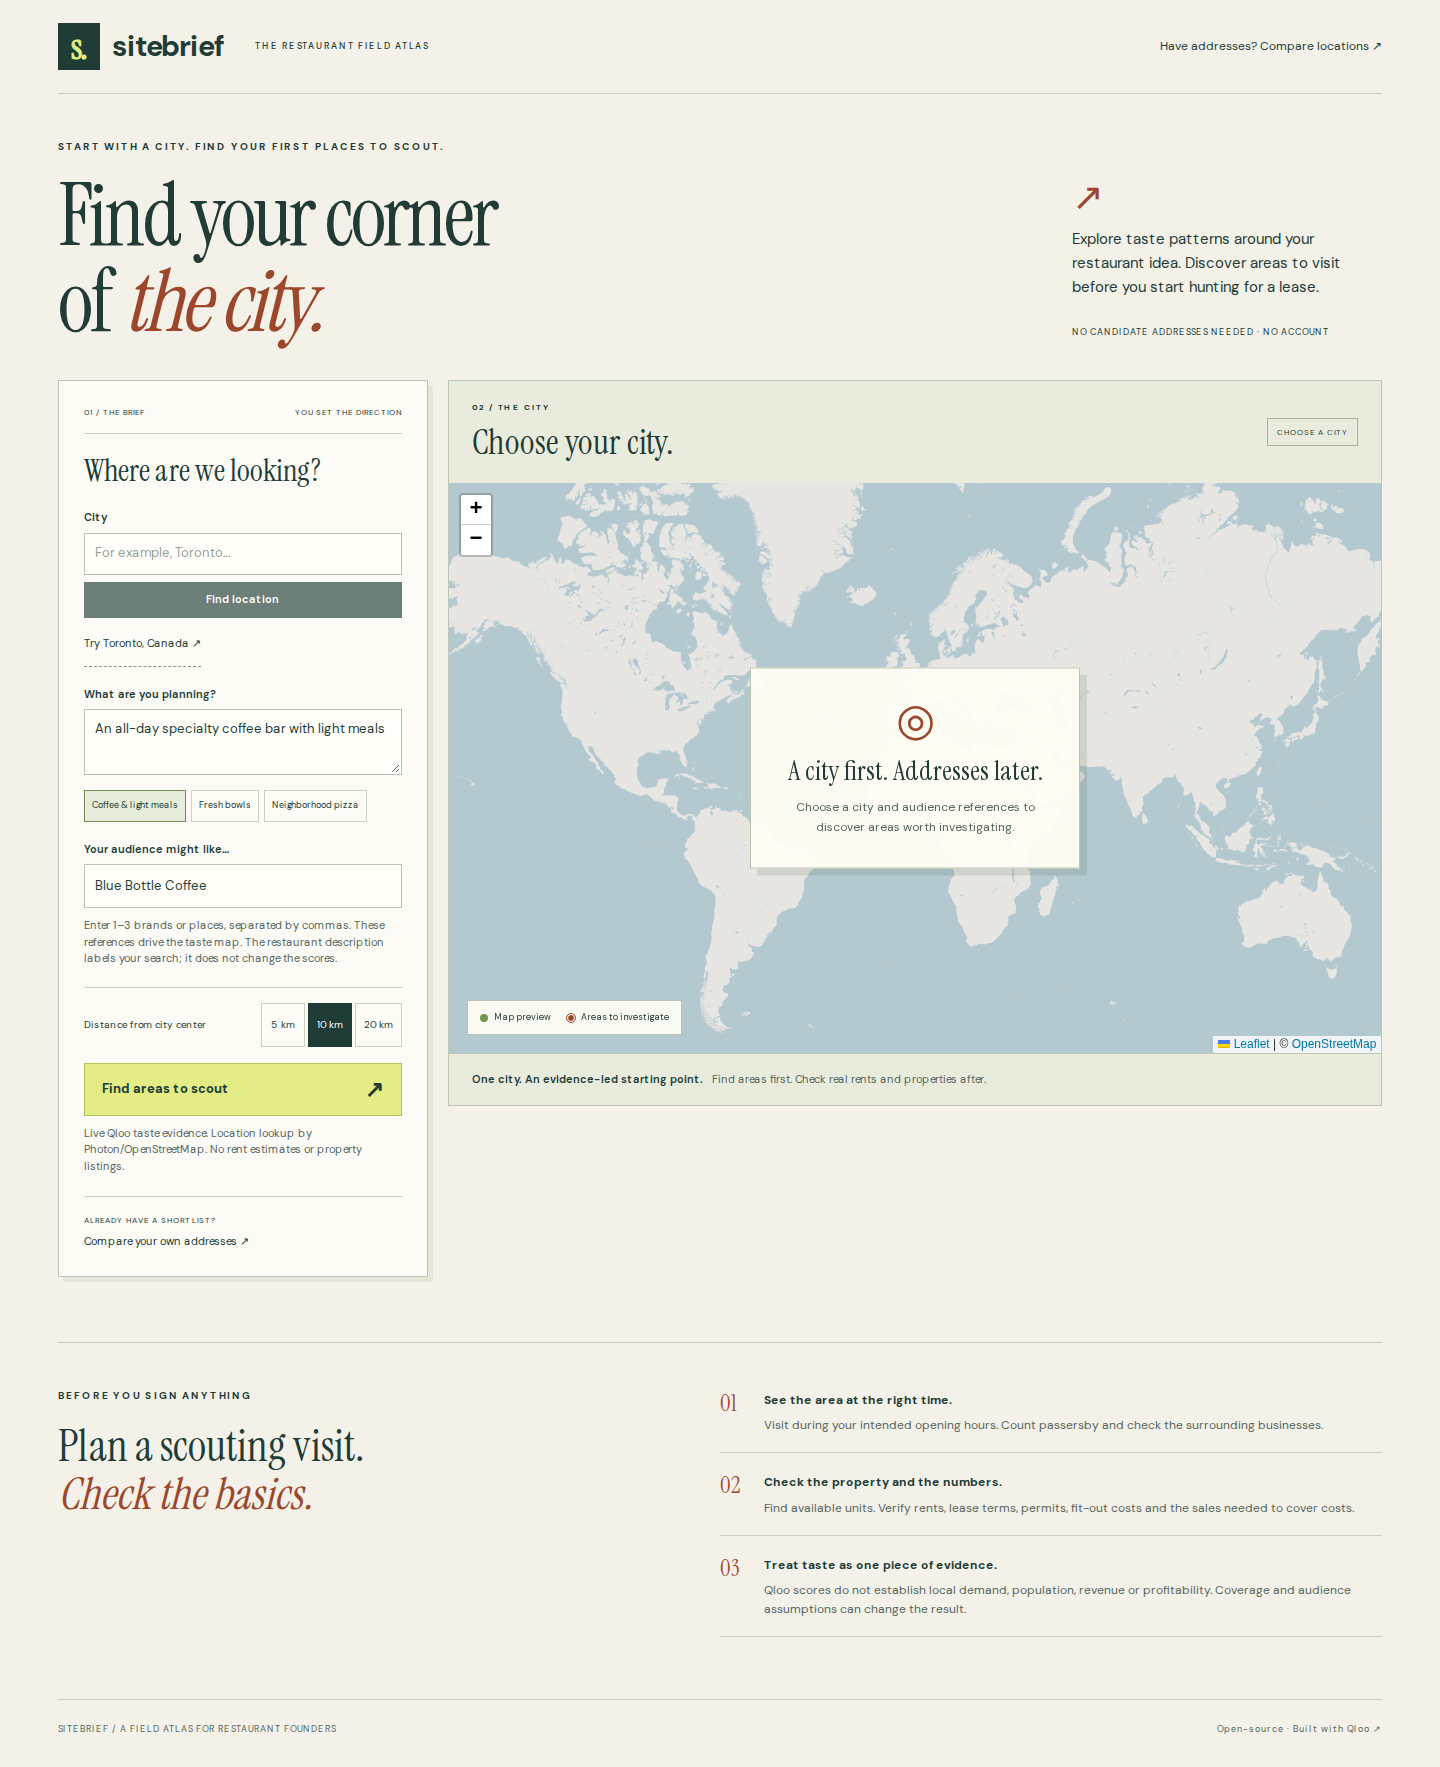
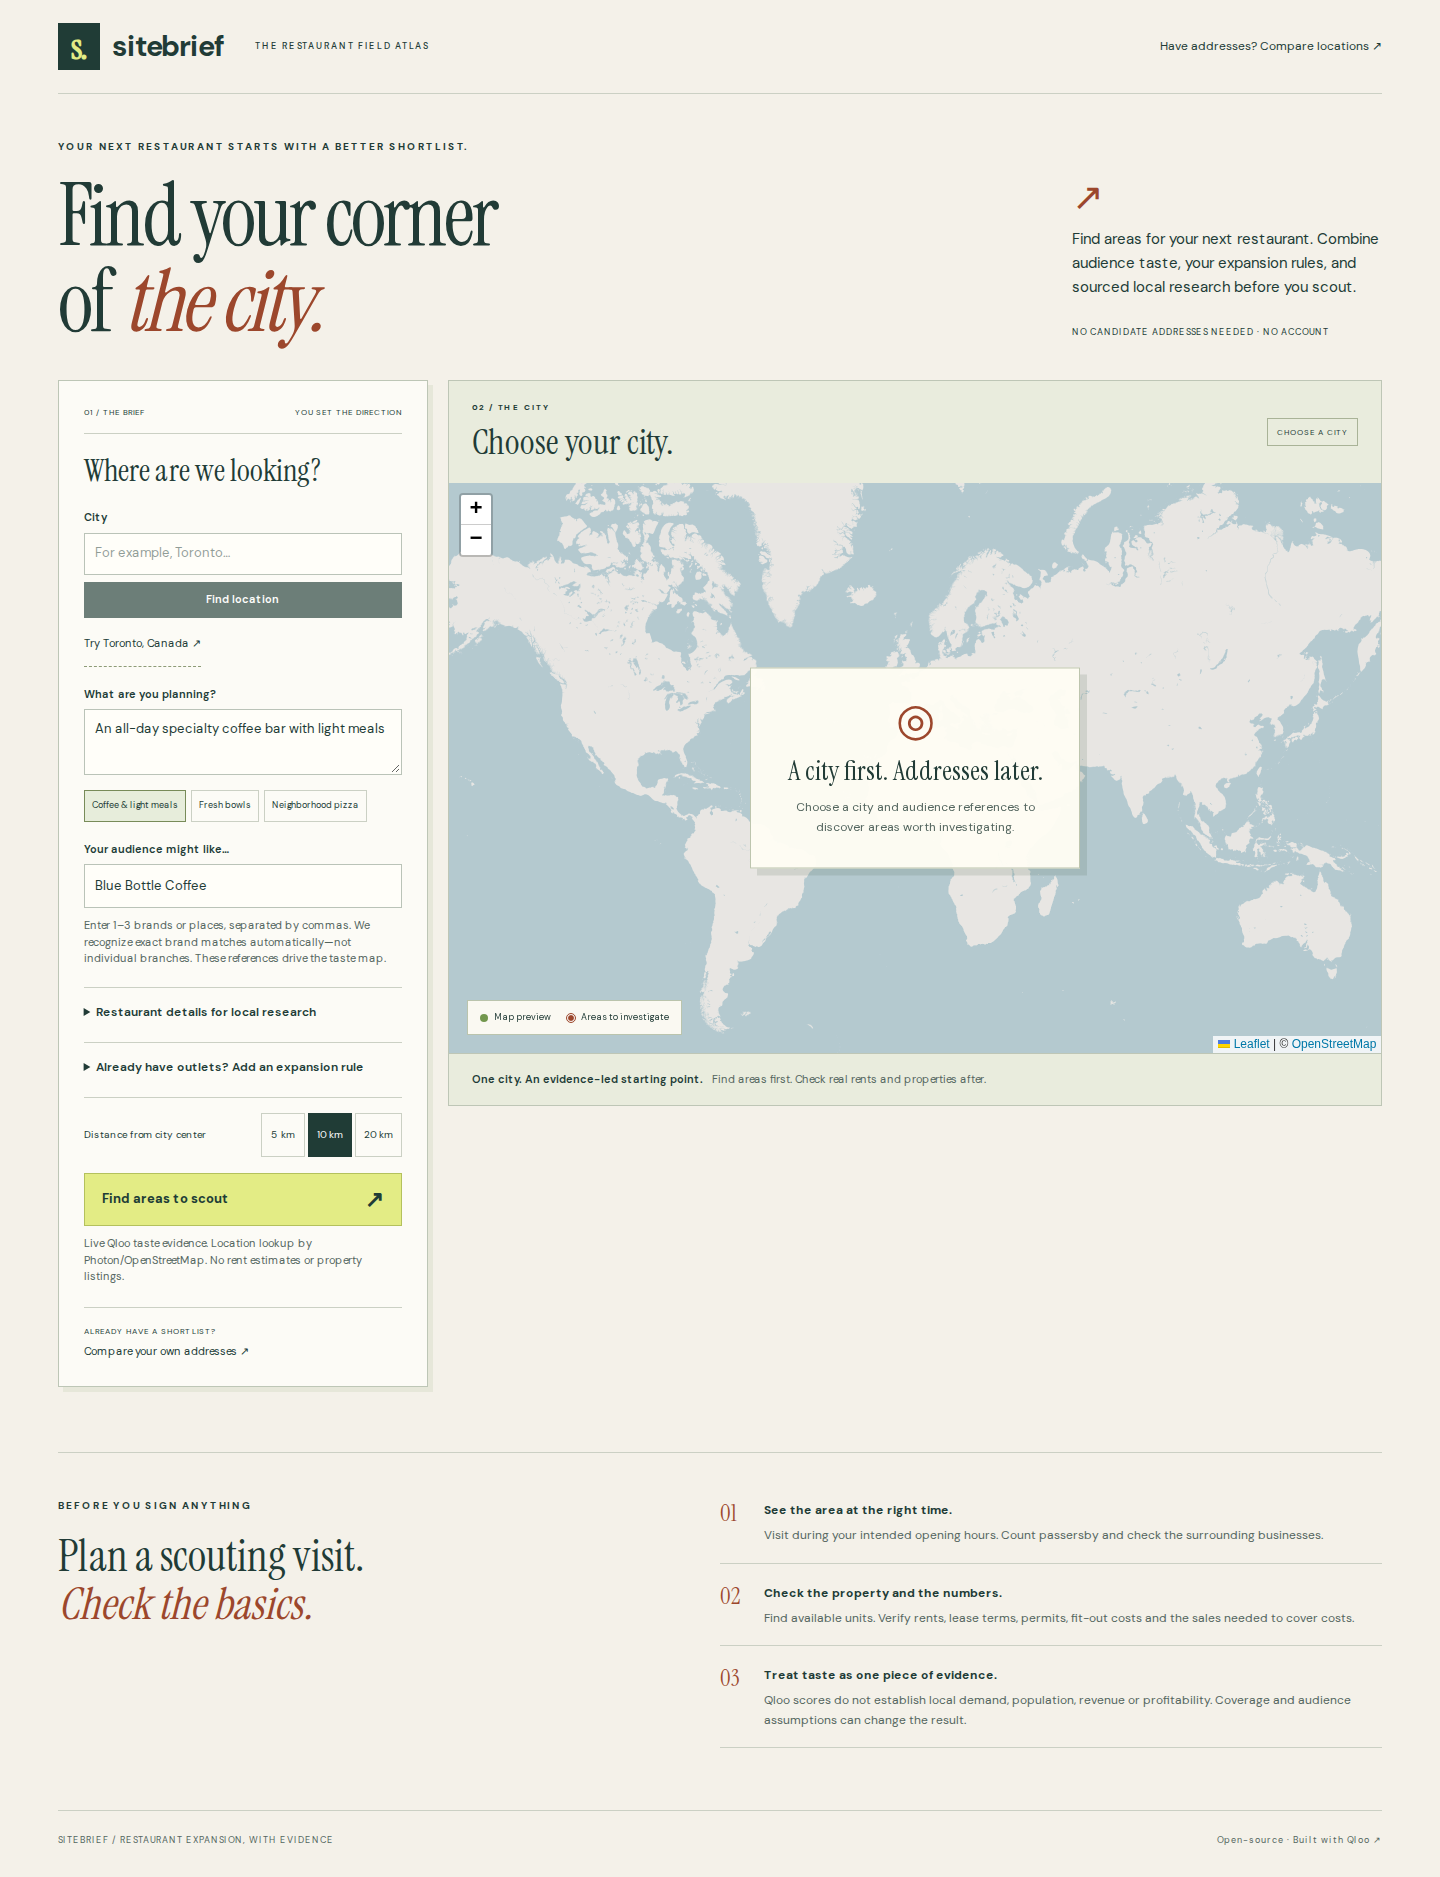
Record hosted restaurant demo checks and remaining Gemini blocker

diff --git a/docs/RESTAURANT_EXPANSION.md b/docs/RESTAURANT_EXPANSION.md
@@ -31,3 +31,9 @@ Restaurant-specific inputs remain in the brief schema; geographic selection, pro
 ## Live blocker at implementation
 
 The saved Vercel Gemini credential returned HTTP 400 API_KEY_INVALID on October 22. Qloo search works, including exact brand recognition for Starbucks and Blue Bottle Coffee. Research must remain marked unavailable until the credential is replaced and a real grounded research request passes. Never describe synthetic browser research checks as live verification.
+
+## Hosted core acceptance — October 22
+
+App implementation `d596de2` is hosted at https://collab-scout-b3hwva7ry-circuitstudioais-projects.vercel.app . The restaurant scenario passed nine checks, including one explicitly synthetic inline-citation rendering check. Real Toronto Qloo discovery returned 4,292 local points; the illustrative operator outlet rule excluded 597 and selected eligible alternatives. All-excluded live requests remained empty. The separate address-comparison journey passed 13 checks on the same deployment. Tested desktop/mobile axe violations and page errors: zero.
+
+70 unit/contract tests, lint, types and production builds pass. Research is still blocked: the live hosted request returns503 with no invented report. The complete sourced-research recording remains unverified. Evidence: restaurant-demo/validation.json, location-ux/validation.json and screenshots. Recording plan: restaurant-demo-plan.md.
